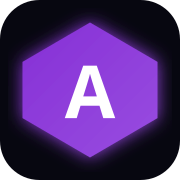
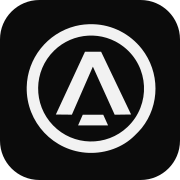
fix(site): correcciones de la revisión final
- Imagen de vista previa y favicon propios (sin Harvestt ni violeta)
- Copy de Cortex: el agente propone y la persona aprueba (no ejecución autónoma)
- 'Prefiero correo' conserva lo escrito aunque falte un campo
- Informe: mejoras menores pendientes y verificación de despliegue

Claude-Session: https://claude.ai/code/session_012jUjWb9yZdgB8nafPshS6D

diff --git a/atlasws/public/index.html b/atlasws/public/index.html
@@ -12,20 +12,20 @@
 
     <!--SEO-->
     <title>Atlas Tech — Sistemas agénticos y consultoría como servicio | Atlas Cortex</title>
-    <meta name="description" content="Consultoría que no entrega un PDF: entrega ejecución. Atlas Cortex combina consultores y agentes de IA que diagnostican, planean y ejecutan sobre tus sistemas." />
+    <meta name="description" content="Consultoría que no entrega un PDF: entrega ejecución. Atlas Cortex combina consultores y agentes de IA para diagnosticar, planear y ejecutar con evidencia." />
     <meta name="robots" content="index, follow" />
     <link rel="canonical" href="https://atlastech.mx/" />
     <meta property="og:type" content="website" />
     <meta property="og:site_name" content="Atlas Tech" />
     <meta property="og:title" content="Atlas Tech — Sistemas agénticos y consultoría como servicio | Atlas Cortex" />
-    <meta property="og:description" content="Consultoría que no entrega un PDF: entrega ejecución. Atlas Cortex combina consultores y agentes de IA que diagnostican, planean y ejecutan sobre tus sistemas." />
+    <meta property="og:description" content="Consultoría que no entrega un PDF: entrega ejecución. Atlas Cortex combina consultores y agentes de IA para diagnosticar, planear y ejecutar con evidencia." />
     <meta property="og:url" content="https://atlastech.mx/" />
-    <meta property="og:image" content="https://atlastech.mx/images/projects/harvestt/mars-domes-branded.png" />
+    <meta property="og:image" content="https://atlastech.mx/images/og-atlas.png" />
     <meta property="og:locale" content="es_MX" />
     <meta name="twitter:card" content="summary_large_image" />
     <meta name="twitter:title" content="Atlas Tech — Sistemas agénticos y consultoría como servicio | Atlas Cortex" />
-    <meta name="twitter:description" content="Consultoría que no entrega un PDF: entrega ejecución. Atlas Cortex combina consultores y agentes de IA que diagnostican, planean y ejecutan sobre tus sistemas." />
-    <meta name="twitter:image" content="https://atlastech.mx/images/projects/harvestt/mars-domes-branded.png" />
+    <meta name="twitter:description" content="Consultoría que no entrega un PDF: entrega ejecución. Atlas Cortex combina consultores y agentes de IA para diagnosticar, planear y ejecutar con evidencia." />
+    <meta name="twitter:image" content="https://atlastech.mx/images/og-atlas.png" />
     <!--/SEO-->
     <!-- Google Fonts - IBM Plex for Atlas One Demos -->
     <link rel="preconnect" href="https://fonts.googleapis.com">

diff --git a/atlasws/src/site/brand.test.ts b/atlasws/src/site/brand.test.ts
@@ -1,0 +1,28 @@
+import fs from "fs";
+import path from "path";
+import cfg from "../seo/seo.config.json";
+
+const root = path.join(__dirname, "../..");
+const read = (p: string) => fs.readFileSync(path.join(root, p), "utf8");
+const VIOLET = /9333ea|a855f7/i;
+
+test("el favicon ya no usa el violeta de la marca anterior", () => {
+  expect(read("public/favicon.svg")).not.toMatch(VIOLET);
+});
+
+test("el demo de Atlas ONE no muestra violeta en su marco", () => {
+  expect(read("src/components/AtlasOneDemos/AtlasOneDemos.tsx")).not.toMatch(VIOLET);
+});
+
+test("las rutas compartidas usan una imagen de vista previa propia, no la de Harvestt", () => {
+  expect(cfg.defaultImage).not.toMatch(/harvestt/);
+  (cfg.routes as any[])
+    .filter((r) => !r.path.startsWith("/proyectos/"))
+    .forEach((r) => expect(r.image ?? cfg.defaultImage).not.toMatch(/harvestt/));
+  expect(fs.existsSync(path.join(root, "public", cfg.defaultImage))).toBe(true);
+  expect(read("public/index.html")).not.toMatch(/og:image" content="[^"]*harvestt/);
+});
+
+test("los metadatos no afirman que los agentes ya ejecutan solos", () => {
+  expect(JSON.stringify(cfg)).not.toMatch(/proponen y ejecutan|agentes[^."]{0,80}lo ejecutan/i);
+});

diff --git a/atlasws/src/site/content/cortex.ts b/atlasws/src/site/content/cortex.ts
@@ -17,7 +17,7 @@ export const intro = {
       text: "La consultoría la entrega hoy el equipo de Atlas Tech, apoyado en Cortex. No es un módulo de autoservicio: es un servicio continuo con personas responsables.",
     },
     {
-      title: "Suscripción, no proyecto",
+      title: "Servicio continuo",
       text: "En lugar de un entregable único, un ciclo permanente: actúa, registra, aprende y se reconstruye.",
     },
     {
@@ -36,7 +36,7 @@ export interface Step {
 export const steps: Step[] = [
   { n: "01", title: "Diagnóstico", text: "Entendemos tu operación y la modelamos: entidades, procesos, decisiones y reglas." },
   { n: "02", title: "Plan", text: "Objetivos, procesos y responsables. Qué hace una persona y qué hace un agente." },
-  { n: "03", title: "Ejecución", text: "Los agentes proponen y actúan en tus sistemas, bajo las reglas que tú defines." },
+  { n: "03", title: "Ejecución", text: "El agente propone cada acción y tú la apruebas; nuestro equipo la lleva a tus sistemas, bajo tus reglas." },
   { n: "04", title: "Evidencia", text: "Cada resultado queda trazado y medido, y alimenta el siguiente ciclo." },
 ];
 

diff --git a/atlasws/src/site/pages/OtherPages.test.tsx b/atlasws/src/site/pages/OtherPages.test.tsx
@@ -79,3 +79,13 @@ test("nosotros muestra los reconocimientos con periodo", () => {
   expect(screen.getByRole("heading", { level: 1 })).toBeInTheDocument();
   expect(screen.getByText(/Periodo: 2016–2021/)).toBeInTheDocument();
 });
+
+test("LeadForm: el correo conserva lo escrito aunque falte un campo", () => {
+  render(<LeadForm />);
+  fireEvent.change(screen.getByLabelText(/nombre/i), { target: { value: "Ana" } });
+  fireEvent.change(screen.getByLabelText(/automatizar/i), { target: { value: "cobranza & compras" } });
+  const href = screen.getByRole("link", { name: /prefiero correo/i }).getAttribute("href") as string;
+  const body = decodeURIComponent(href.split("body=")[1]);
+  expect(body).toContain("Ana");
+  expect(body).toContain("cobranza & compras");
+});

diff --git a/atlasws/src/site/components/LeadForm.tsx b/atlasws/src/site/components/LeadForm.tsx
@@ -22,9 +22,15 @@ const LeadForm: React.FC = () => {
     window.open(waLink(leadMessage(f)), "_blank", "noopener");
   };
 
+  // El correo conserva lo que la persona ya escribió, aunque falte algún campo.
+  const filled = [
+    f.nombre.trim() && `Nombre: ${f.nombre.trim()}`,
+    f.empresa.trim() && `Empresa: ${f.empresa.trim()}`,
+    f.objetivo.trim() && `Quiero automatizar: ${f.objetivo.trim()}`,
+  ].filter(Boolean);
   const mail = mailtoLink(
     `Llamada con Atlas Tech${f.nombre.trim() ? " — " + f.nombre.trim() : ""}`,
-    isLeadComplete(f) ? leadMessage(f) : "Hola, quiero agendar una llamada."
+    ["Hola, quiero agendar una llamada.", ...filled].join("\n")
   );
 
   return (

diff --git a/atlasws/src/components/AtlasOneDemos/AtlasOneDemos.tsx b/atlasws/src/components/AtlasOneDemos/AtlasOneDemos.tsx
@@ -925,7 +925,7 @@ export const AtlasOneDemosPlayer: React.FC = () => {
     }}>
       {/* Preset selector bar */}
       <div style={{ marginBottom: 28 }}>
-        <div style={{ fontSize: 11, fontFamily: ATLAS_MONO, color: "#a855f7", letterSpacing: 0.15, textTransform: "uppercase", marginBottom: 12 }}>
+        <div style={{ fontSize: 11, fontFamily: ATLAS_MONO, color: "#9a9a9a", letterSpacing: 0.15, textTransform: "uppercase", marginBottom: 12 }}>
           Paso 1: Selecciona una industria (Preset)
         </div>
         <div style={{ display: "flex", flexWrap: "wrap", gap: 8 }}>

diff --git a/atlasws/src/site/content/content.test.ts b/atlasws/src/site/content/content.test.ts
@@ -63,3 +63,10 @@ test("Atlas ONE: 11 giros, precio y stack real", () => {
   expect(atlasOne.stack.join(" ")).toMatch(/FastAPI/);
   expect(atlasOne.stack.join(" ")).not.toMatch(/Node|Railway/i);
 });
+
+test("no se afirma como hecho la ejecución autónoma ni un modelo comercial no definido", () => {
+  expect(all).not.toMatch(/agentes proponen y actúan|suscripción/i);
+  // Hoy el agente propone y la persona confirma (spec §7).
+  expect(cortex.steps[2].text).toMatch(/propone/i);
+  expect(cortex.steps[2].text).toMatch(/equipo|aprob|confirm/i);
+});

diff --git a/contex/INFORME-estado-2026-11.md b/contex/INFORME-estado-2026-11.md
@@ -97,7 +97,8 @@ prellenado; el formulario arma el mensaje y abre WhatsApp, con `mailto:` como al
 
 React 19 + TypeScript (CRA), React Router 7, Lenis, Bootstrap (solo para las páginas de detalle).
 Se retiraron 17 dependencias sin uso (three, gsap, MUI, swiper, slick, wowjs, entre otras) y
-305 archivos de la plantilla. 84 pruebas automáticas.
+305 archivos de la plantilla. 90 pruebas automáticas. Imagen de vista previa (`/images/og-atlas.png`)
+y favicon propios de la identidad NOIR.
 
 ---
 
@@ -114,8 +115,17 @@ Se retiraron 17 dependencias sin uso (three, gsap, MUI, swiper, slick, wowjs, en
 > - [ ] Verificar los premios de Harvestt contra los diplomas: el repo registra INTARG 2017 (plata)
 >       e ICAN Toronto 2018 (oro); la página de detalle lista 2018, 2019 y 2021.
 > - [ ] Cambiar la descripción del repo `harvestt` en GitHub ("2016 awr wina toronto").
-> - [ ] Imágenes Open Graph propias para `/`, `/cortex` y `/atlas-one` (hoy usan la de Harvestt).
+> - [ ] Confirmar dos textos: "Nuestro primer cliente de Cortex somos nosotros mismos" (viene del documento de visión de Cortex) y "Desde 2016" (viene de la guía de marca).
 > - [ ] Calendario en línea (Cal.com / Calendly) si se quiere agenda directa.
+
+> [!note] Mejoras menores detectadas en la revisión final (no aplicadas)
+> - URLs inexistentes responden 200 con la página de error (falta marcarla `noindex`).
+> - Las páginas de detalle del portafolio aún enlazan `/contact` y `/proyectos` (funcionan por redirección).
+> - Abrir directo `/cortex#estado` o `/atlas-one#demo` no baja a la sección.
+> - Menú móvil: sin cierre con Escape; orden de tabulación mejorable. Formulario: sin `aria-invalid`.
+> - Con "reducir movimiento", el scroll al cambiar de página sigue siendo suave.
+> - Notas de fuente y etiquetas de estado son pequeñas en móvil (≈10 px).
+> - Sobras: `@types/react-slick`, lista de imágenes borradas en `optimize-images.cjs`.
 
 > [!todo] Despliegue (Hostinger)
 > ```bash
@@ -123,5 +133,7 @@ Se retiraron 17 dependencias sin uso (three, gsap, MUI, swiper, slick, wowjs, en
 > CI=false npm run build      # postbuild inyecta SEO + sitemap + robots
 > # Subir TODO build/ a public_html (incluye .htaccess con las redirecciones 301)
 > ```
-> - [ ] Probar en producción las direcciones viejas (`/about`, `/service`, `/proyectos/atlas-one`).
+> - [ ] Probar en producción con `curl -I` las 7 direcciones viejas y las 6 nuevas. Las redirecciones solo se
+>       verificaron por prueba de contenido, no contra Apache real. Punto a vigilar: el build crea una carpeta
+>       por ruta, así que Apache puede redirigir `/cortex` → `/cortex/` (un salto extra frente a la URL canónica).
 > - [ ] Reenviar `sitemap.xml` a Google Search Console.
